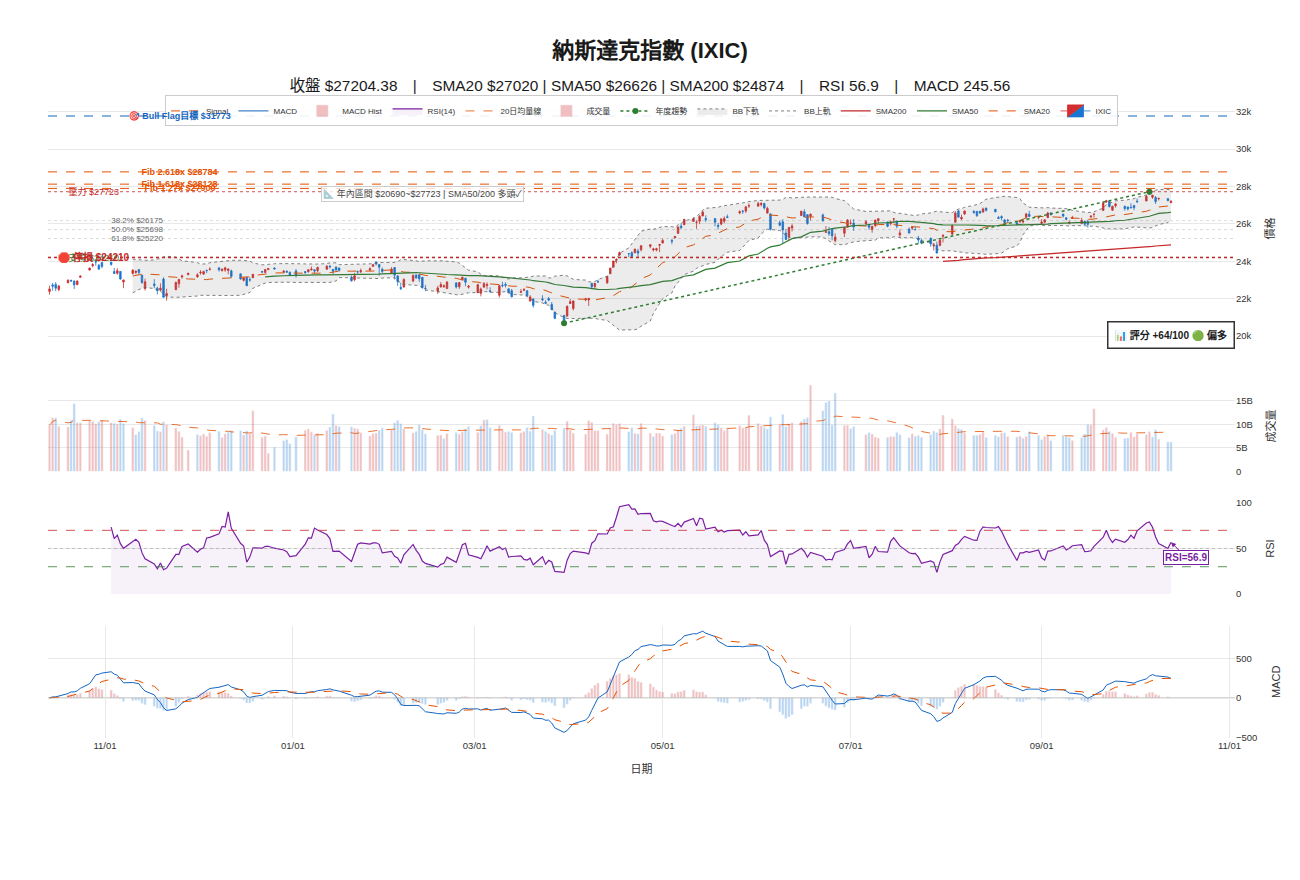
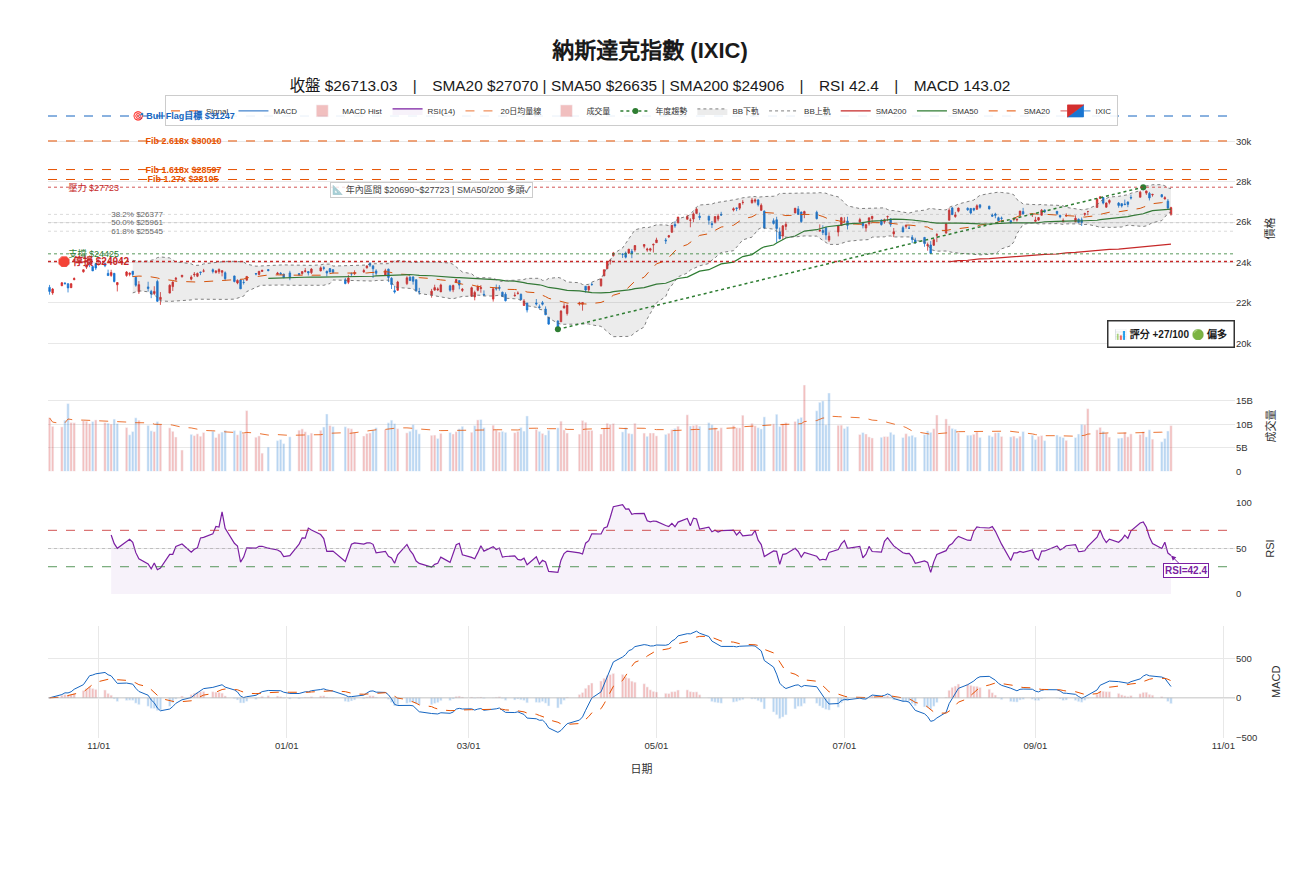
charts: 更新 2026-10-16 技術圖

diff --git a/charts/index.html b/charts/index.html
@@ -39,27 +39,27 @@ body { font-family:'Noto Sans TC',sans-serif; background:#f5f0e8; color:#1a1714;
   <a href="../">← 回首頁</a>
 </div>
 <div class="container">
-  <div class="date-badge">📅 2026/10/14 更新 — 週三（資料截至 10/13 週二美股收盤）</div>
+  <div class="date-badge">📅 2026/10/16 更新 — 週五（資料截至 10/15 週四美股收盤）</div>
   <div class="chart-grid">
     <div class="chart-card">
       <img src="dji.png" alt="道瓊工業指數">
-      <div class="info"><h3>道瓊工業指數 DJI</h3><p>51,670.10 (-0.35%) · RSI 52.4 · 🟢 高檔橫向整理</p></div>
+      <div class="info"><h3>道瓊工業指數 DJI</h3><p>52,177.69 (+1.08%) · RSI 55.2 · 🟢 偏多走強</p></div>
     </div>
     <div class="chart-card">
       <img src="sox.png" alt="費城半導體指數">
-      <div class="info"><h3>費城半導體指數 SOX</h3><p>12,208.79 (-0.23%) · RSI 42.6 · 🟢 偏多（跌破 SMA20、守 SMA50）</p></div>
+      <div class="info"><h3>費城半導體指數 SOX</h3><p>11,581.21 (-0.88%) · RSI 29.0 · 🟡 超賣區（RSI 跌破 30）</p></div>
     </div>
     <div class="chart-card">
       <img src="ixic.png" alt="納斯達克指數">
-      <div class="info"><h3>納斯達克指數 IXIC</h3><p>27,204.38 (-0.15%) · RSI 56.9 · 🟢 強勢高檔整理</p></div>
+      <div class="info"><h3>納斯達克指數 IXIC</h3><p>26,713.03 (+0.08%) · RSI 42.4 · ⚪ 中性整理</p></div>
     </div>
     <div class="chart-card">
       <img src="tsm.png" alt="台積電 ADR">
-      <div class="info"><h3>台積電 ADR (TSM)</h3><p>$445.12 (+0.17%) · RSI 49.1 · 🟢 上升趨勢回檔整理</p></div>
+      <div class="info"><h3>台積電 ADR (TSM)</h3><p>$422.25 (-1.80%) · RSI 36.1 · ⚪ 中性偏弱</p></div>
     </div>
     <div class="chart-card">
       <img src="intc.png" alt="Intel">
-      <div class="info"><h3>Intel (INTC)</h3><p>$102.81 (+1.44%) · RSI 26.5 · 🟡 超賣反彈（RSI 落入超賣區）</p></div>
+      <div class="info"><h3>Intel (INTC)</h3><p>$95.37 (-2.80%) · RSI 15.8 · 🟡 深度超賣反彈候選</p></div>
     </div>
     <div class="chart-card" style="cursor:pointer;" onclick="location.href='taiex-technical.html'">
       <div style="height:160px;background:linear-gradient(135deg,#1a1a2e,#16213e);display:flex;align-items:center;justify-content:center;">
